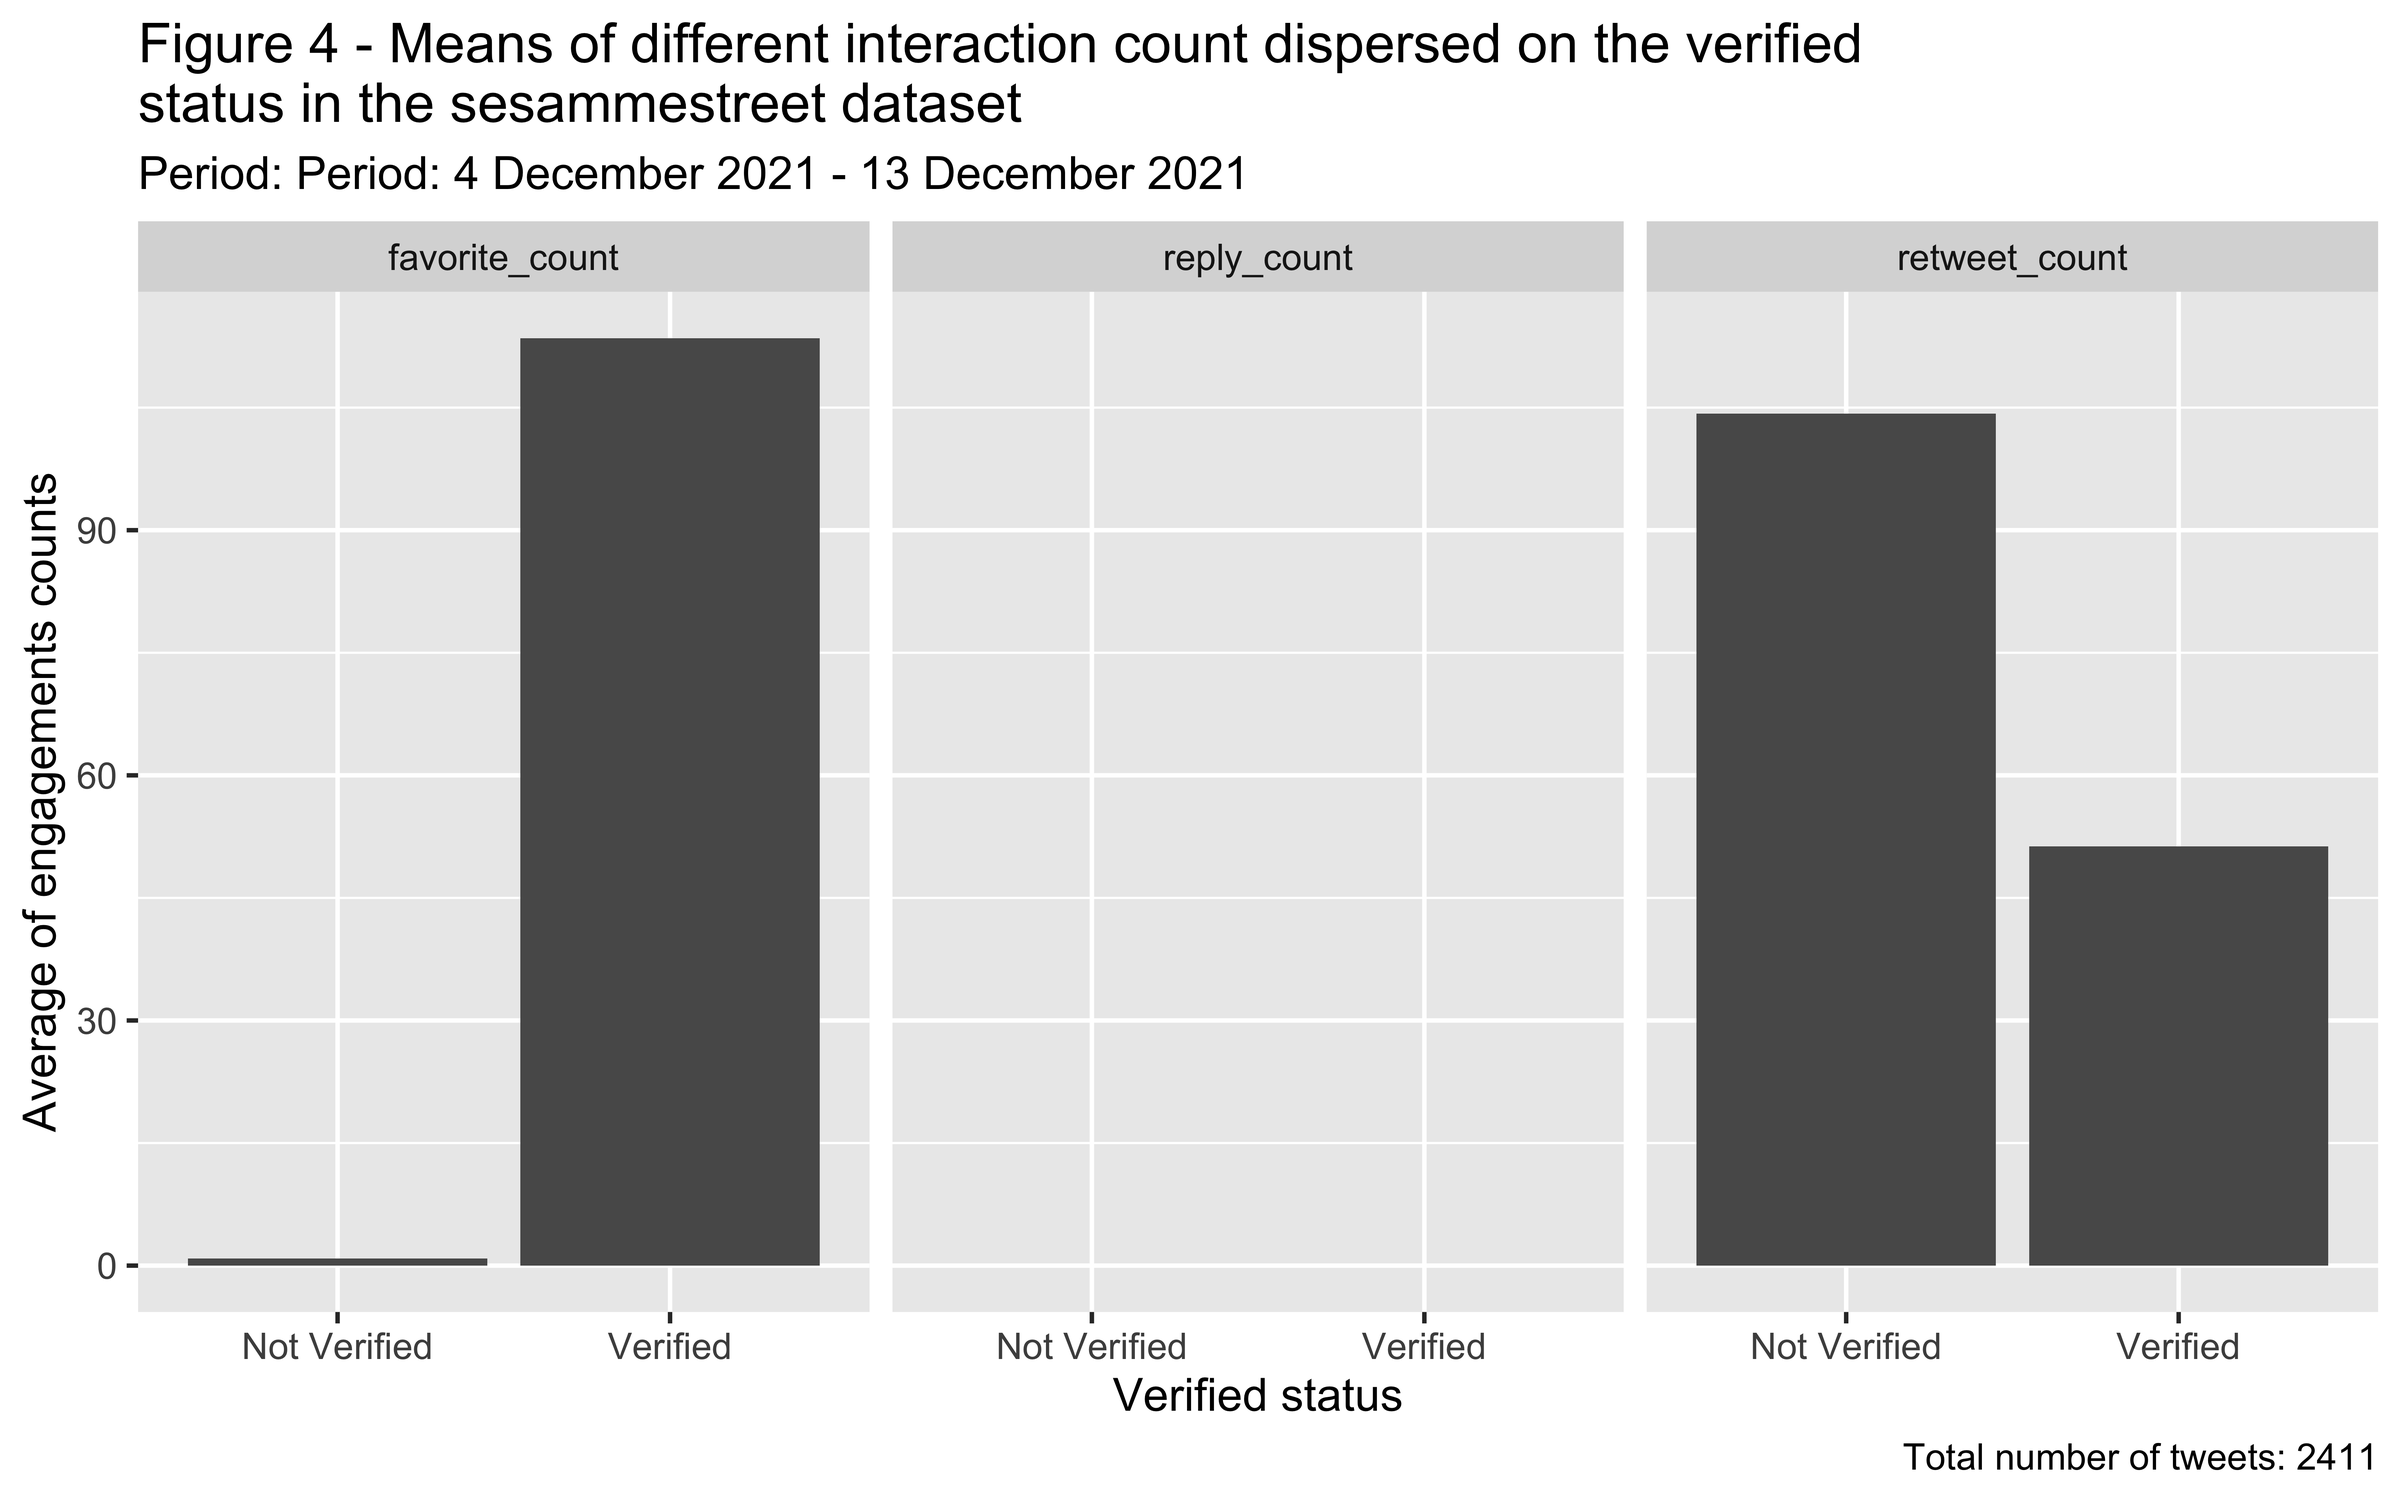
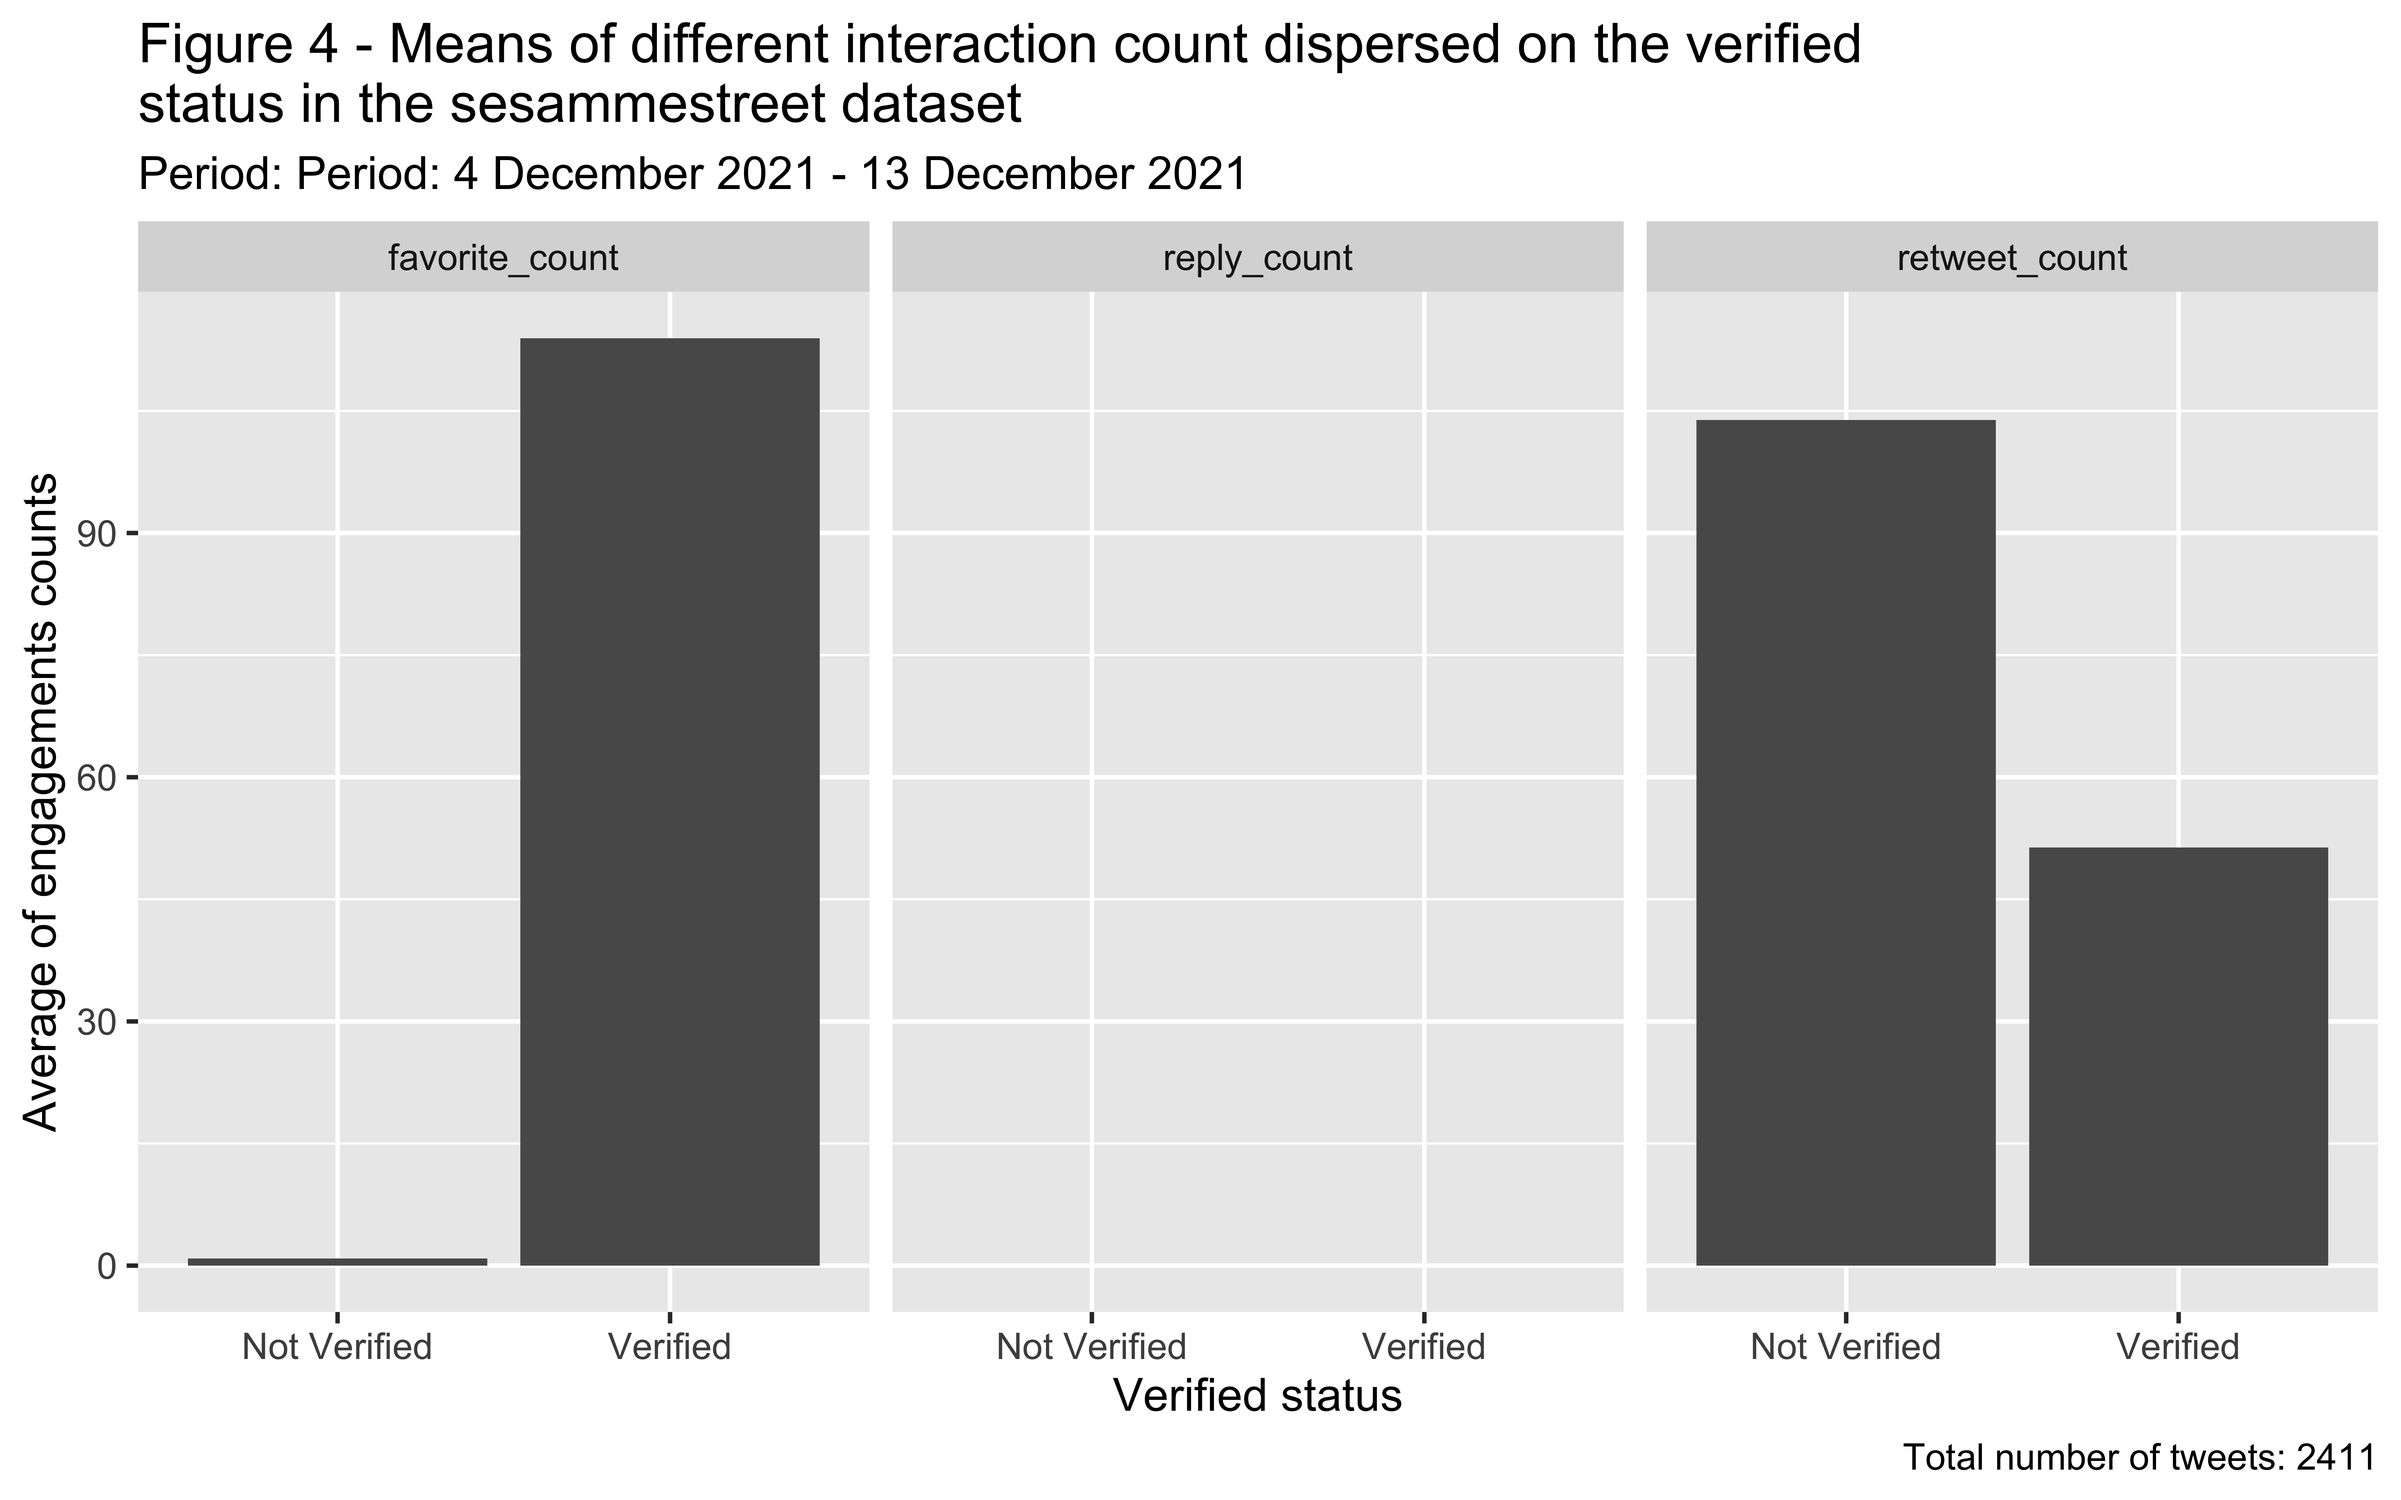
updated binary md

diff --git a/rmarkdowns/20211213_binary_exploration.md b/rmarkdowns/20211213_binary_exploration.md
@@ -37,7 +37,7 @@ has “FALSE” - then it isn’t.
     ## # A tibble: 2 x 2
     ##   verified     n
     ## * <lgl>    <int>
-    ## 1 FALSE     2368
+    ## 1 FALSE     2372
     ## 2 TRUE        64
 
 So now you have the count - but it would make more sence to have these
@@ -55,8 +55,8 @@ dataset one row = one tweet:
     ## # A tibble: 2 x 3
     ##   verified     n total
     ## * <lgl>    <int> <int>
-    ## 1 FALSE     2368  2432
-    ## 2 TRUE        64  2432
+    ## 1 FALSE     2372  2436
+    ## 2 TRUE        64  2436
 
 Using another pipe you now create a new column called “percentage” where
 you calculate and store the percentage of the dispersion between
@@ -70,8 +70,8 @@ verified and non-verified tweets:
     ## # A tibble: 2 x 4
     ##   verified     n total   pct
     ## * <lgl>    <int> <int> <dbl>
-    ## 1 FALSE     2368  2432 97.4 
-    ## 2 TRUE        64  2432  2.63
+    ## 1 FALSE     2372  2436 97.4 
+    ## 2 TRUE        64  2436  2.63
 
 The next step is to visualize this result. Here you use the
 “ggplot2”-package to create a bar chart:
@@ -116,7 +116,7 @@ non-verified and verified accounts.
     ## # A tibble: 2 x 2
     ##   verified     gns
     ## * <lgl>      <dbl>
-    ## 1 FALSE      0.889
+    ## 1 FALSE      0.892
     ## 2 TRUE     114.
 
 In this next step you add the result from above to a dataframe and with
@@ -128,48 +128,13 @@ a new column “interaction” where you specify that it is
       summarise(gns = mean(favorite_count)) %>% 
       mutate(interaction = "favorite_count")
 
-In the next step you calculate the means for retweets and reply
-following the same method as you did with the favorite count:
-
-    interactions %>% 
-      add_row(
-        sesamestreet_data %>% 
-          group_by(verified) %>% 
-          summarise(gns = mean(retweet_count), .groups = "drop") %>% 
-          mutate(interaction = "retweet_count")) %>% 
-      add_row(
-        sesamestreet_data %>% 
-          group_by(verified) %>% 
-          summarise(gns = mean(reply_count), .groups = "drop") %>% 
-          mutate(interaction = "reply_count"))
-
-    ## # A tibble: 6 x 3
-    ##   verified     gns interaction   
-    ##   <lgl>      <dbl> <chr>         
-    ## 1 FALSE      0.889 favorite_count
-    ## 2 TRUE     114.    favorite_count
-    ## 3 FALSE    104.    retweet_count 
-    ## 4 TRUE      51.3   retweet_count 
-    ## 5 FALSE     NA     reply_count   
-    ## 6 TRUE      NA     reply_count
-
 This way you get a dataframe with the means of the different
 interactions which makes it possible to pass it on to the ggplot-package
 for visualisation, which is done below. The visualisation looks alot
 like the previous bar charts, but the difference here is `facet_wrap`,
 which creates three bar charts for each type of interaction:
 
-    interactions %>% 
-      add_row(
-        sesamestreet_data %>% 
-          group_by(verified) %>% 
-          summarise(gns = mean(retweet_count), .groups = "drop") %>% 
-          mutate(interaction = "retweet_count")) %>% 
-      add_row(
-        sesamestreet_data %>% 
-          group_by(verified) %>% 
-          summarise(gns = mean(reply_count), .groups = "drop") %>% 
-          mutate(interaction = "reply_count")) %>% 
+    interactions  %>% 
       ggplot(aes(x = verified, y = gns)) +
       geom_col() +
       facet_wrap(~interaction, nrow = 1) +
@@ -180,11 +145,4 @@ which creates three bar charts for each type of interaction:
            y = "Average of engagements counts") +
       scale_x_discrete(labels=c("FALSE" = "Not Verified", "TRUE" = "Verified"))
 
-    ## Warning: Removed 2 rows containing missing values (position_stack).
-
-![](20211213_binary_exploration_files/figure-markdown_strict/unnamed-chunk-11-1.png)
-In the next step you save the visualisation as png for the article.
-
-    ggsave("20211213_sesammestreet_interactions_dispersed_on_verified_status.png", width = 8, height = 5, dpi = 800)
-
-    ## Warning: Removed 2 rows containing missing values (position_stack).
+![](20211213_binary_exploration_files/figure-markdown_strict/unnamed-chunk-10-1.png)
